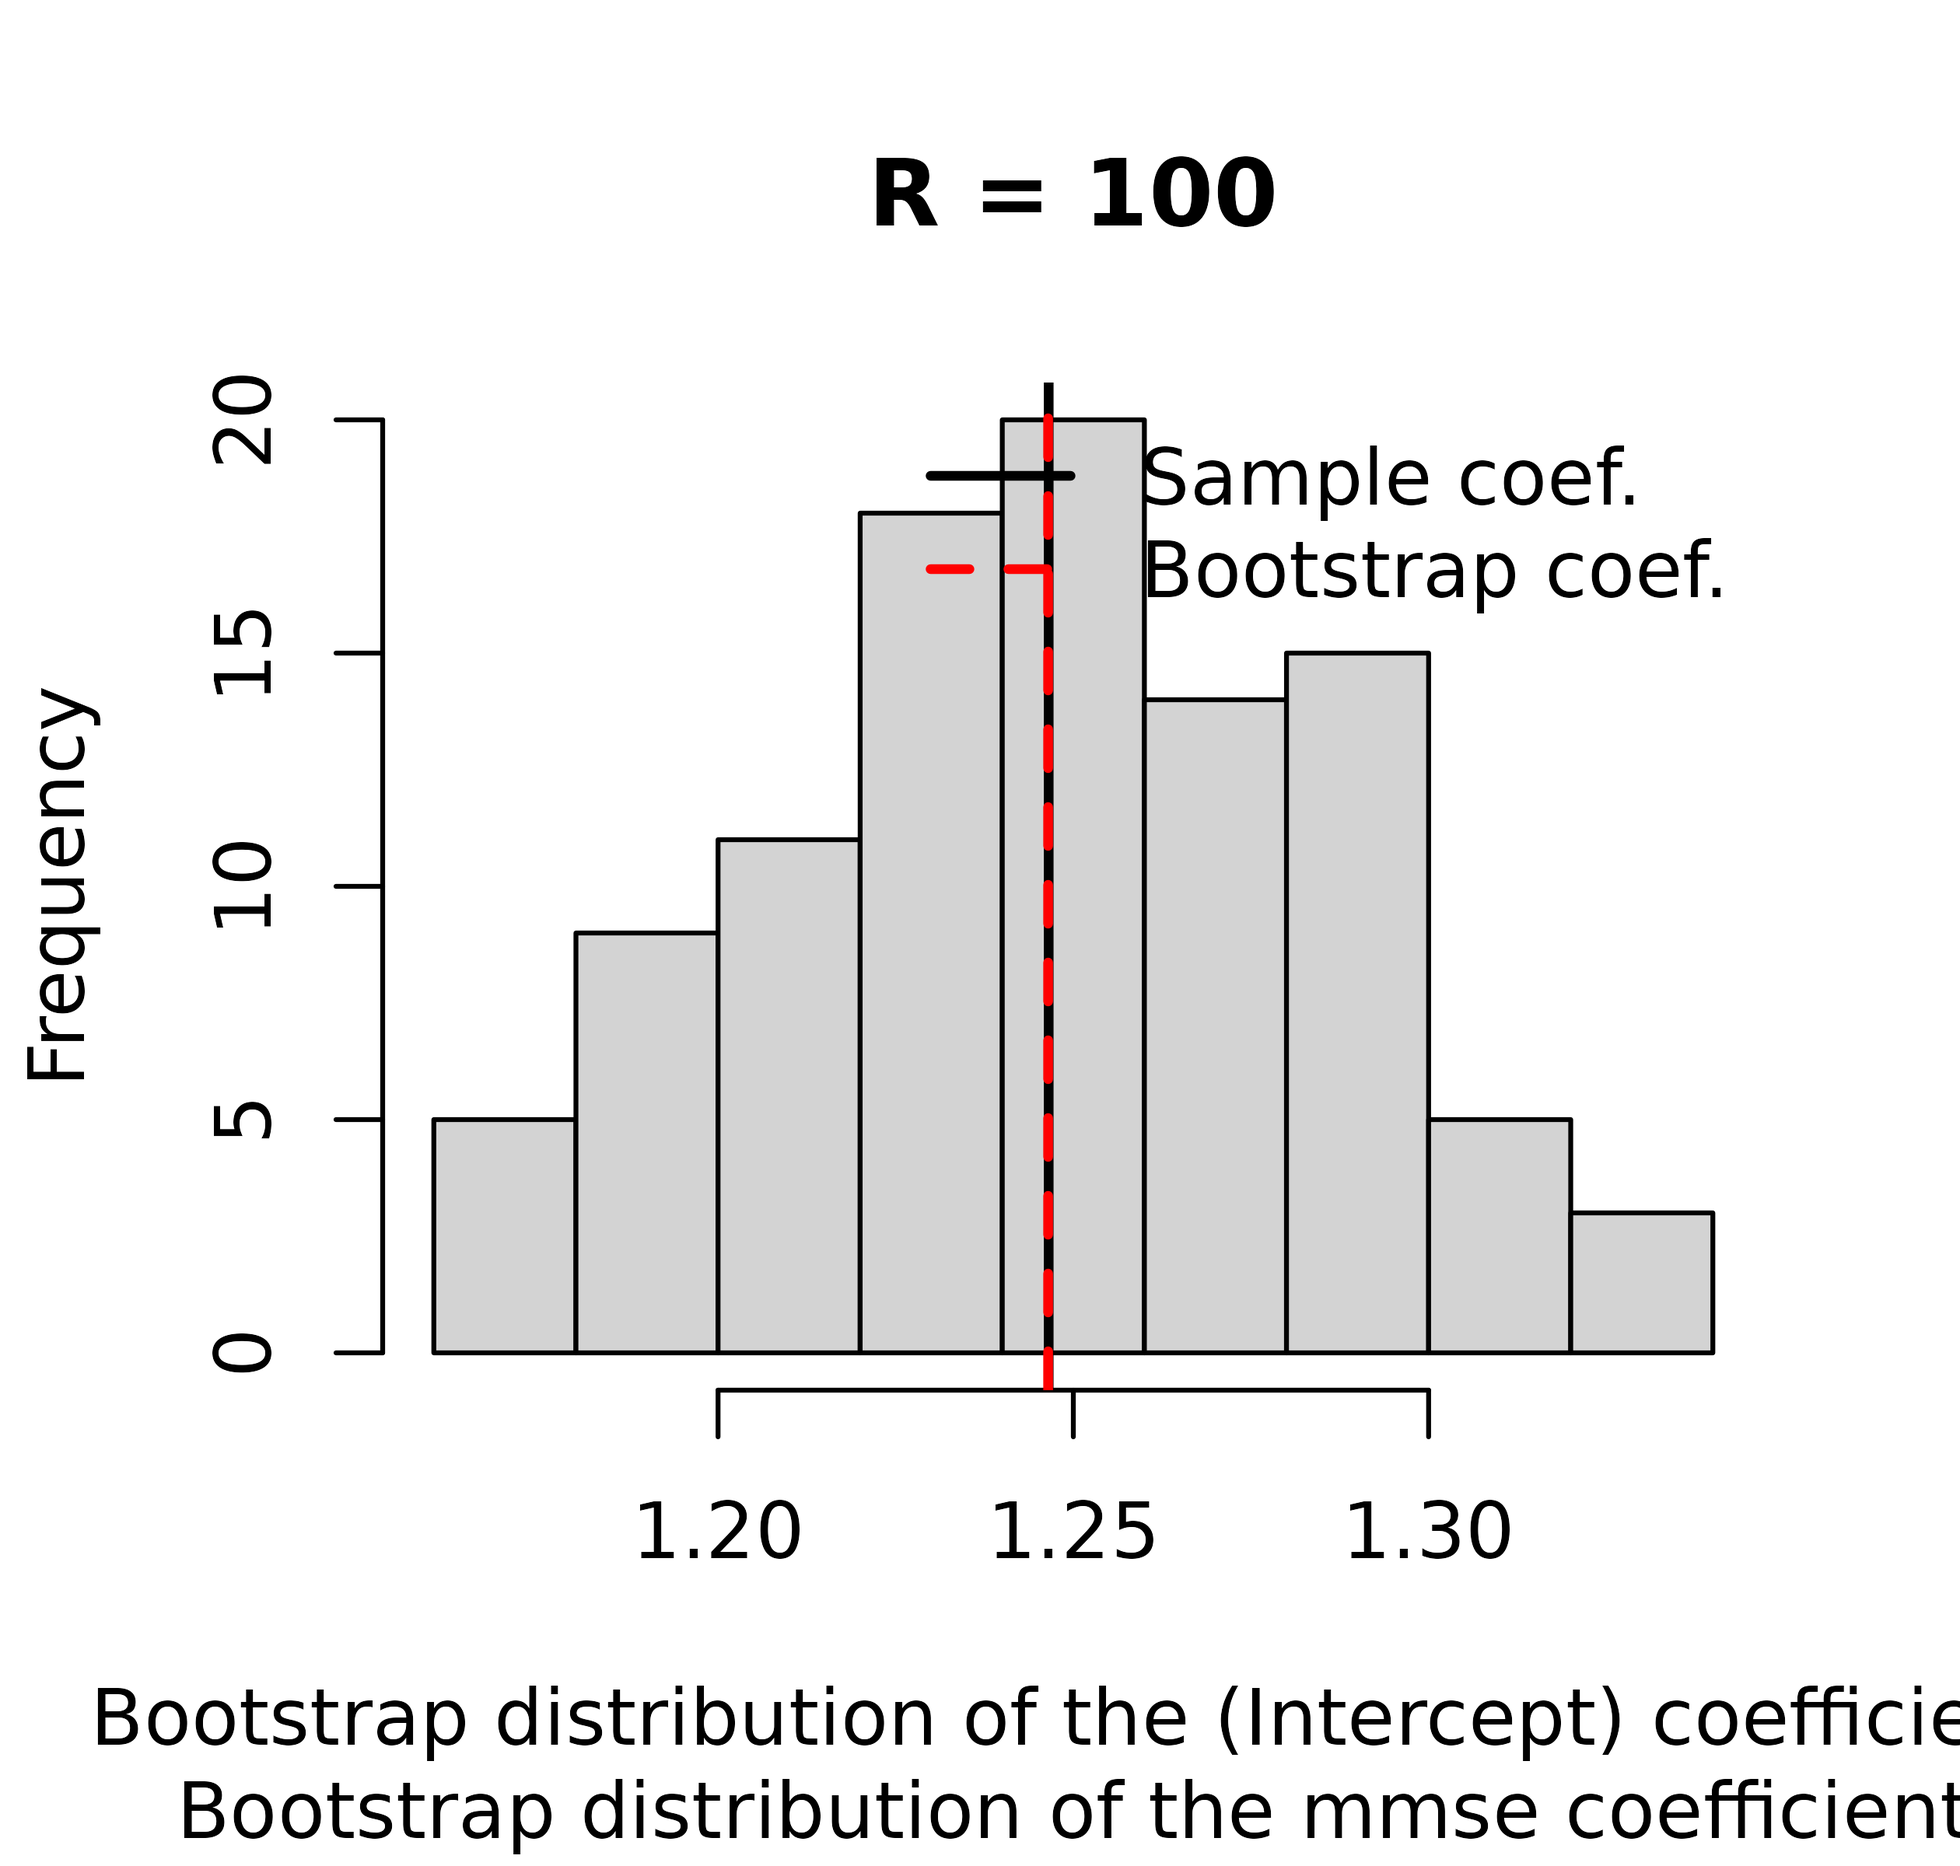
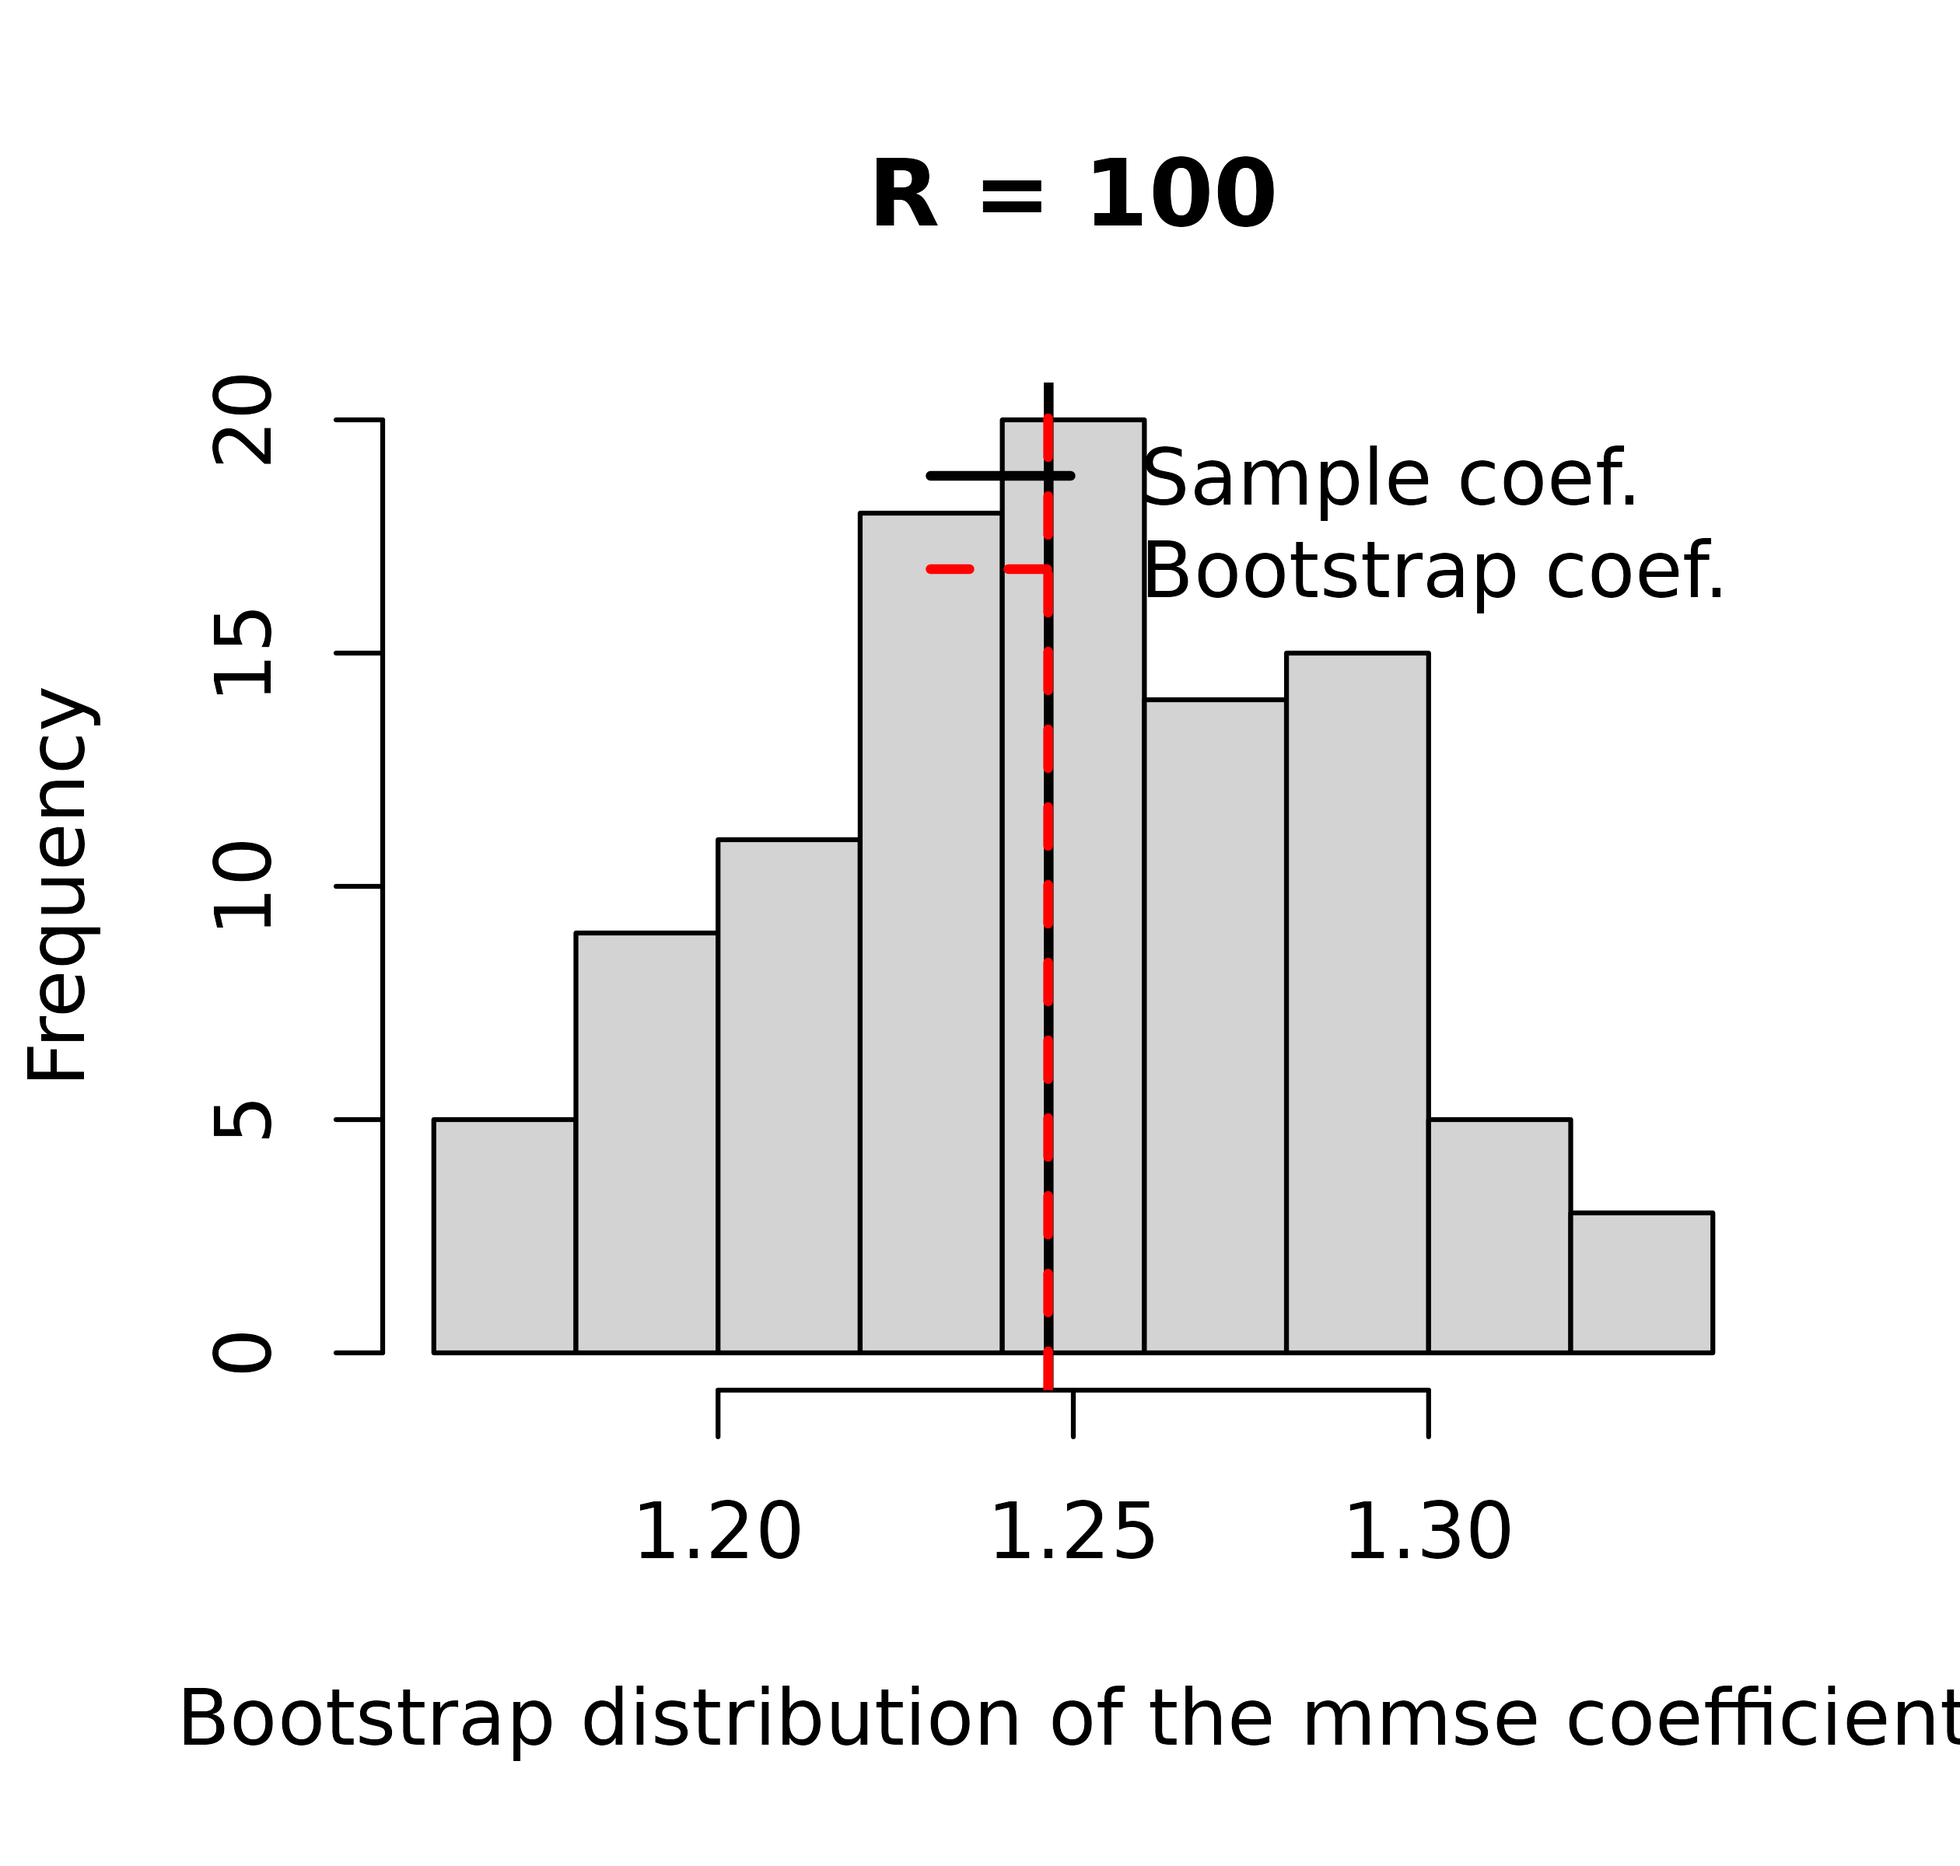
Deploying to gh-pages from @ jrgant/cogxwalkr@36ff433e1b0b2d14f33faaf08902318a436fd17d 🚀

Changed region(s): [[0.031, 0.9062, 1.0, 1.0]]

diff --git a/articles/getting-started.html b/articles/getting-started.html
@@ -152,7 +152,7 @@ construct.</li>
   
   pre {
     overflow-y: scroll;
-    max-height: 300px;
+    max-height: 500px;
   }
 </style>
 <div class="float" id="fig:dag-assumptions">
@@ -379,9 +379,7 @@ confidence intervals.</p>
 <code class="sourceCode R"><span><span class="fu"><a href="https://rdrr.io/r/graphics/plot.default.html" class="external-link">plot</a></span><span class="op">(</span><span class="va">cwu</span>, cxsum <span class="op">=</span> <span class="fu"><a href="https://rdrr.io/r/base/summary.html" class="external-link">summary</a></span><span class="op">(</span><span class="va">cwu</span><span class="op">)</span><span class="op">)</span></span></code></pre></div>
 <p><img src="getting-started_files/figure-html/plot-cwu-boot-1.png" width="100%"></p>
 <p>Alternatively, if we used the summary statistics method
-(<code>cws</code> above), we will see something a bit different.<a class="footnote-ref" tabindex="0" data-bs-toggle="popover" data-bs-content="&lt;p&gt;Note that there is currently a bug in the plotting
-method for a crosswalk based on summary statistics. The x-axis label
-should omit the line referring to the “Intercept”.&lt;/p&gt;"><sup>3</sup></a> We no
+(<code>cws</code> above), we will see something a bit different. We no
 longer have a plot of the split differences.</p>
 <div class="sourceCode" id="cb13"><pre class="downlit sourceCode r">
 <code class="sourceCode R"><span><span class="fu"><a href="https://rdrr.io/r/graphics/plot.default.html" class="external-link">plot</a></span><span class="op">(</span><span class="va">cws</span><span class="op">)</span></span>
@@ -464,10 +462,10 @@ estimated mean, standard error, and
 confidence interval (by default
 <math display="inline" xmlns="http://www.w3.org/1998/Math/MathML"><semantics><mrow><mi>α</mi><mo>=</mo><mn>0.05</mn></mrow><annotation encoding="application/x-tex">\alpha=0.05</annotation></semantics></math>),
 accounting for uncertainty in both the crosswalk estimate and published
-summary.<a class="footnote-ref" tabindex="0" data-bs-toggle="popover" data-bs-content='&lt;p&gt;See &lt;a href="https://en.wikipedia.org/wiki/Propagation_of_uncertainty" class="external-link"&gt;&lt;math display="inline" xmlns="http://www.w3.org/1998/Math/MathML"&gt;&lt;semantics&gt;&lt;mrow&gt;&lt;mi&gt;f&lt;/mi&gt;&lt;mo&gt;=&lt;/mo&gt;&lt;mi&gt;A&lt;/mi&gt;&lt;mi&gt;B&lt;/mi&gt;&lt;/mrow&gt;&lt;annotation encoding="application/x-tex"&gt;f=AB&lt;/annotation&gt;&lt;/semantics&gt;&lt;/math&gt;&lt;/a&gt;.&lt;/p&gt;'><sup>4</sup></a>
+summary.<a class="footnote-ref" tabindex="0" data-bs-toggle="popover" data-bs-content='&lt;p&gt;See &lt;a href="https://en.wikipedia.org/wiki/Propagation_of_uncertainty" class="external-link"&gt;&lt;math display="inline" xmlns="http://www.w3.org/1998/Math/MathML"&gt;&lt;semantics&gt;&lt;mrow&gt;&lt;mi&gt;f&lt;/mi&gt;&lt;mo&gt;=&lt;/mo&gt;&lt;mi&gt;A&lt;/mi&gt;&lt;mi&gt;B&lt;/mi&gt;&lt;/mrow&gt;&lt;annotation encoding="application/x-tex"&gt;f=AB&lt;/annotation&gt;&lt;/semantics&gt;&lt;/math&gt;&lt;/a&gt;.&lt;/p&gt;'><sup>3</sup></a>
 In this case, we see the estimated difference in MoCA comparing APOE-ε4
-carriers to non-carriers is -2.87 (, SE = 0.140, 95% CI: [-3.15,
--2.60]), based on the information is <code>dcw_se</code>.</p>
+carriers to non-carriers is -2.87 (SE = 0.140, 95% CI: [-3.15, -2.60]),
+based on the information is <code>dcw_se</code>.</p>
 </div>
 <div class="section level2">
 <h2 class="unnumbered" id="references">References<a class="anchor" aria-label="anchor" href="#references"></a>
